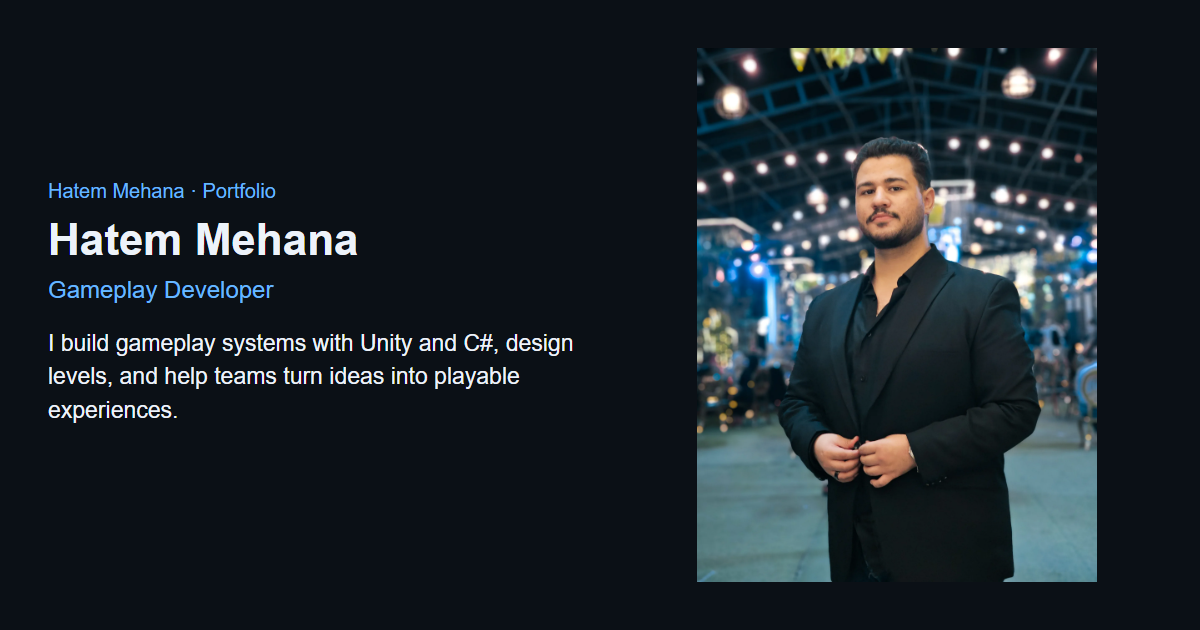
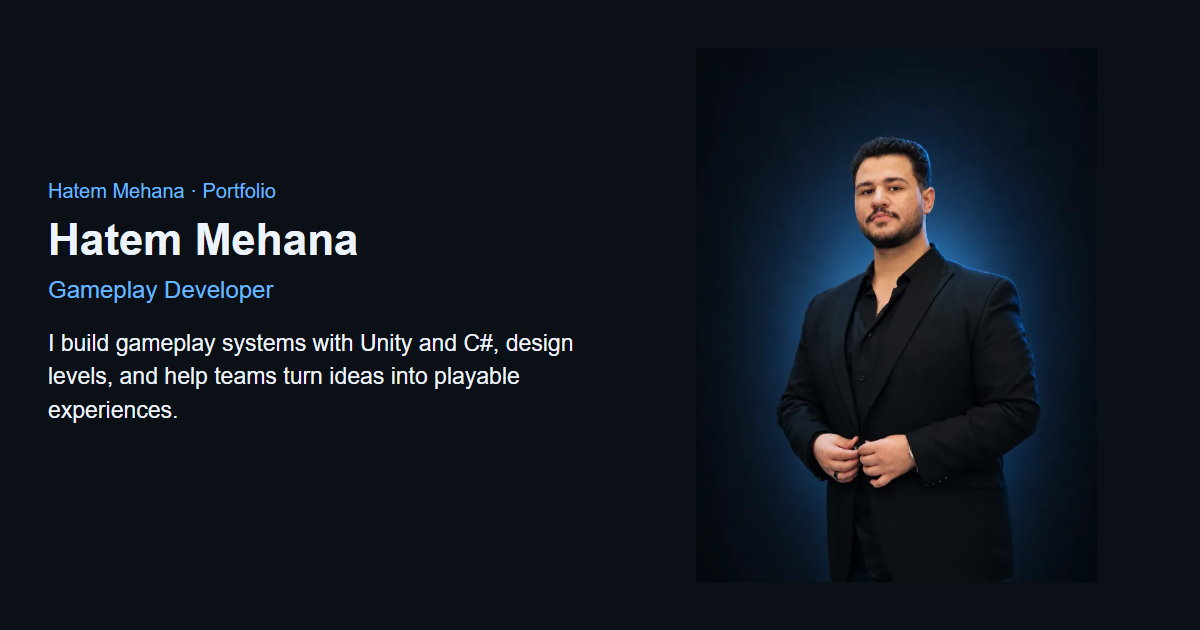
Configure verified Pages URL and production SEO metadata

Changed region(s): [[0.555, 0.0603, 0.925, 0.9349]]

diff --git a/projects/king-of-stratgy.html b/projects/king-of-stratgy.html
@@ -24,7 +24,7 @@
   <link rel="modulepreload" href="js/dom.js">
   <link rel="modulepreload" href="js/sliders.js">
   <meta name="description" content="strategy game simulating ancient battles with five unit types and 10 historical armies, each with unique traits. It features 30 challenging levels where players set formations and watch the outcome. My role: Programmer &amp; Level Designer.">
-  <meta name="robots" content="noindex, follow">
+  <meta name="robots" content="index, follow">
   <meta property="og:title" content="King Of Stratgy | Hatem Mehana">
   <meta property="og:description" content="strategy game simulating ancient battles with five unit types and 10 historical armies, each with unique traits. It features 30 challenging levels where players set formations and watch the outcome. My role: Programmer &amp; Level Designer.">
   <meta property="og:type" content="website">
@@ -32,6 +32,14 @@
   <meta name="twitter:card" content="summary_large_image">
   <meta name="twitter:title" content="King Of Stratgy | Hatem Mehana">
   <meta name="twitter:description" content="strategy game simulating ancient battles with five unit types and 10 historical armies, each with unique traits. It features 30 challenging levels where players set formations and watch the outcome. My role: Programmer &amp; Level Designer.">
+  <link rel="canonical" href="https://hatem2311.github.io/hatem-mehana.github.io/projects/king-of-stratgy.html">
+  <meta property="og:url" content="https://hatem2311.github.io/hatem-mehana.github.io/projects/king-of-stratgy.html">
+  <meta property="og:image" content="https://hatem2311.github.io/hatem-mehana.github.io/share/king-of-stratgy.png">
+  <meta property="og:image:type" content="image/png">
+  <meta property="og:image:width" content="1200">
+  <meta property="og:image:height" content="630">
+  <meta property="og:image:alt" content="King Of Stratgy — Programmer &amp; Level Designer">
+  <meta name="twitter:image" content="https://hatem2311.github.io/hatem-mehana.github.io/share/king-of-stratgy.png">
 </head>
 <body data-project-id="king-of-stratgy">
   <a class="skip-link" href="projects/king-of-stratgy.html#main">Skip to content</a>

diff --git a/projects/azooma-escape.html b/projects/azooma-escape.html
@@ -24,7 +24,7 @@
   <link rel="modulepreload" href="js/dom.js">
   <link rel="modulepreload" href="js/sliders.js">
   <meta name="description" content="Hide. Dodge flying slippers. Avoid that ONE uncle determined to feed you. Your mission: escape Uncle&#39;s celebration alive and unfed. My role: Programmer &amp; Level Designer.">
-  <meta name="robots" content="noindex, follow">
+  <meta name="robots" content="index, follow">
   <meta property="og:title" content="Azooma Escape | Hatem Mehana">
   <meta property="og:description" content="Hide. Dodge flying slippers. Avoid that ONE uncle determined to feed you. Your mission: escape Uncle&#39;s celebration alive and unfed. My role: Programmer &amp; Level Designer.">
   <meta property="og:type" content="website">
@@ -32,6 +32,14 @@
   <meta name="twitter:card" content="summary_large_image">
   <meta name="twitter:title" content="Azooma Escape | Hatem Mehana">
   <meta name="twitter:description" content="Hide. Dodge flying slippers. Avoid that ONE uncle determined to feed you. Your mission: escape Uncle&#39;s celebration alive and unfed. My role: Programmer &amp; Level Designer.">
+  <link rel="canonical" href="https://hatem2311.github.io/hatem-mehana.github.io/projects/azooma-escape.html">
+  <meta property="og:url" content="https://hatem2311.github.io/hatem-mehana.github.io/projects/azooma-escape.html">
+  <meta property="og:image" content="https://hatem2311.github.io/hatem-mehana.github.io/share/azooma-escape.png">
+  <meta property="og:image:type" content="image/png">
+  <meta property="og:image:width" content="1200">
+  <meta property="og:image:height" content="630">
+  <meta property="og:image:alt" content="Azooma Escape — Programmer &amp; Level Designer">
+  <meta name="twitter:image" content="https://hatem2311.github.io/hatem-mehana.github.io/share/azooma-escape.png">
 </head>
 <body data-project-id="azooma-escape">
   <a class="skip-link" href="projects/azooma-escape.html#main">Skip to content</a>

diff --git a/projects/implant-mission-the-lost-tree.html b/projects/implant-mission-the-lost-tree.html
@@ -24,7 +24,7 @@
   <link rel="modulepreload" href="js/dom.js">
   <link rel="modulepreload" href="js/sliders.js">
   <meta name="description" content="Explore a polluted land in search of the last hope to restore life! My role: Team Leader &amp; Level Designer.">
-  <meta name="robots" content="noindex, follow">
+  <meta name="robots" content="index, follow">
   <meta property="og:title" content="Implant Mission: The Lost Tree | Hatem Mehana">
   <meta property="og:description" content="Explore a polluted land in search of the last hope to restore life! My role: Team Leader &amp; Level Designer.">
   <meta property="og:type" content="website">
@@ -32,6 +32,14 @@
   <meta name="twitter:card" content="summary_large_image">
   <meta name="twitter:title" content="Implant Mission: The Lost Tree | Hatem Mehana">
   <meta name="twitter:description" content="Explore a polluted land in search of the last hope to restore life! My role: Team Leader &amp; Level Designer.">
+  <link rel="canonical" href="https://hatem2311.github.io/hatem-mehana.github.io/projects/implant-mission-the-lost-tree.html">
+  <meta property="og:url" content="https://hatem2311.github.io/hatem-mehana.github.io/projects/implant-mission-the-lost-tree.html">
+  <meta property="og:image" content="https://hatem2311.github.io/hatem-mehana.github.io/share/implant-mission-the-lost-tree.png">
+  <meta property="og:image:type" content="image/png">
+  <meta property="og:image:width" content="1200">
+  <meta property="og:image:height" content="630">
+  <meta property="og:image:alt" content="Implant Mission: The Lost Tree — Team Leader &amp; Level Designer">
+  <meta name="twitter:image" content="https://hatem2311.github.io/hatem-mehana.github.io/share/implant-mission-the-lost-tree.png">
 </head>
 <body data-project-id="implant-mission-the-lost-tree">
   <a class="skip-link" href="projects/implant-mission-the-lost-tree.html#main">Skip to content</a>

diff --git a/projects/lanterns-ninja.html b/projects/lanterns-ninja.html
@@ -24,7 +24,7 @@
   <link rel="modulepreload" href="js/dom.js">
   <link rel="modulepreload" href="js/sliders.js">
   <meta name="description" content="Your goal is to destroy as many lanterns as possible and collect as many points as possible. My role: Gameplay Programmer &amp; Level Designer.">
-  <meta name="robots" content="noindex, follow">
+  <meta name="robots" content="index, follow">
   <meta property="og:title" content="Lanterns Ninja | Hatem Mehana">
   <meta property="og:description" content="Your goal is to destroy as many lanterns as possible and collect as many points as possible. My role: Gameplay Programmer &amp; Level Designer.">
   <meta property="og:type" content="website">
@@ -32,6 +32,14 @@
   <meta name="twitter:card" content="summary_large_image">
   <meta name="twitter:title" content="Lanterns Ninja | Hatem Mehana">
   <meta name="twitter:description" content="Your goal is to destroy as many lanterns as possible and collect as many points as possible. My role: Gameplay Programmer &amp; Level Designer.">
+  <link rel="canonical" href="https://hatem2311.github.io/hatem-mehana.github.io/projects/lanterns-ninja.html">
+  <meta property="og:url" content="https://hatem2311.github.io/hatem-mehana.github.io/projects/lanterns-ninja.html">
+  <meta property="og:image" content="https://hatem2311.github.io/hatem-mehana.github.io/share/lanterns-ninja.png">
+  <meta property="og:image:type" content="image/png">
+  <meta property="og:image:width" content="1200">
+  <meta property="og:image:height" content="630">
+  <meta property="og:image:alt" content="Lanterns Ninja — Gameplay Programmer &amp; Level Designer">
+  <meta name="twitter:image" content="https://hatem2311.github.io/hatem-mehana.github.io/share/lanterns-ninja.png">
 </head>
 <body data-project-id="lanterns-ninja">
   <a class="skip-link" href="projects/lanterns-ninja.html#main">Skip to content</a>

diff --git a/projects/3d-tic-tac-toe.html b/projects/3d-tic-tac-toe.html
@@ -24,7 +24,7 @@
   <link rel="modulepreload" href="js/dom.js">
   <link rel="modulepreload" href="js/sliders.js">
   <meta name="description" content=" The classic game reimagined in 3D for a modern, exciting experience. My role: Gameplay Programmer &amp; Level Designer.">
-  <meta name="robots" content="noindex, follow">
+  <meta name="robots" content="index, follow">
   <meta property="og:title" content="3D Tic Tac Toe | Hatem Mehana">
   <meta property="og:description" content=" The classic game reimagined in 3D for a modern, exciting experience. My role: Gameplay Programmer &amp; Level Designer.">
   <meta property="og:type" content="website">
@@ -32,6 +32,14 @@
   <meta name="twitter:card" content="summary_large_image">
   <meta name="twitter:title" content="3D Tic Tac Toe | Hatem Mehana">
   <meta name="twitter:description" content=" The classic game reimagined in 3D for a modern, exciting experience. My role: Gameplay Programmer &amp; Level Designer.">
+  <link rel="canonical" href="https://hatem2311.github.io/hatem-mehana.github.io/projects/3d-tic-tac-toe.html">
+  <meta property="og:url" content="https://hatem2311.github.io/hatem-mehana.github.io/projects/3d-tic-tac-toe.html">
+  <meta property="og:image" content="https://hatem2311.github.io/hatem-mehana.github.io/share/3d-tic-tac-toe.png">
+  <meta property="og:image:type" content="image/png">
+  <meta property="og:image:width" content="1200">
+  <meta property="og:image:height" content="630">
+  <meta property="og:image:alt" content="3D Tic Tac Toe — Gameplay Programmer &amp; Level Designer">
+  <meta name="twitter:image" content="https://hatem2311.github.io/hatem-mehana.github.io/share/3d-tic-tac-toe.png">
 </head>
 <body data-project-id="3d-tic-tac-toe">
   <a class="skip-link" href="projects/3d-tic-tac-toe.html#main">Skip to content</a>

diff --git a/projects/roblox-maps.html b/projects/roblox-maps.html
@@ -24,7 +24,7 @@
   <link rel="modulepreload" href="js/dom.js">
   <link rel="modulepreload" href="js/sliders.js">
   <meta name="description" content="Each map is organized by stages of development, as shown in the following images. My role: Level Designer.">
-  <meta name="robots" content="noindex, follow">
+  <meta name="robots" content="index, follow">
   <meta property="og:title" content="Roblox Maps | Hatem Mehana">
   <meta property="og:description" content="Each map is organized by stages of development, as shown in the following images. My role: Level Designer.">
   <meta property="og:type" content="website">
@@ -32,6 +32,14 @@
   <meta name="twitter:card" content="summary_large_image">
   <meta name="twitter:title" content="Roblox Maps | Hatem Mehana">
   <meta name="twitter:description" content="Each map is organized by stages of development, as shown in the following images. My role: Level Designer.">
+  <link rel="canonical" href="https://hatem2311.github.io/hatem-mehana.github.io/projects/roblox-maps.html">
+  <meta property="og:url" content="https://hatem2311.github.io/hatem-mehana.github.io/projects/roblox-maps.html">
+  <meta property="og:image" content="https://hatem2311.github.io/hatem-mehana.github.io/share/roblox-maps.png">
+  <meta property="og:image:type" content="image/png">
+  <meta property="og:image:width" content="1200">
+  <meta property="og:image:height" content="630">
+  <meta property="og:image:alt" content="Roblox Maps — Level Designer">
+  <meta name="twitter:image" content="https://hatem2311.github.io/hatem-mehana.github.io/share/roblox-maps.png">
 </head>
 <body data-project-id="roblox-maps">
   <a class="skip-link" href="projects/roblox-maps.html#main">Skip to content</a>

diff --git a/projects/horror-home.html b/projects/horror-home.html
@@ -24,7 +24,7 @@
   <link rel="modulepreload" href="js/dom.js">
   <link rel="modulepreload" href="js/sliders.js">
   <meta name="description" content="small environment consisting of a house room, inside and outside, and one enemy My role: Level Designer.">
-  <meta name="robots" content="noindex, follow">
+  <meta name="robots" content="index, follow">
   <meta property="og:title" content="Horror Home | Hatem Mehana">
   <meta property="og:description" content="small environment consisting of a house room, inside and outside, and one enemy My role: Level Designer.">
   <meta property="og:type" content="website">
@@ -32,6 +32,14 @@
   <meta name="twitter:card" content="summary_large_image">
   <meta name="twitter:title" content="Horror Home | Hatem Mehana">
   <meta name="twitter:description" content="small environment consisting of a house room, inside and outside, and one enemy My role: Level Designer.">
+  <link rel="canonical" href="https://hatem2311.github.io/hatem-mehana.github.io/projects/horror-home.html">
+  <meta property="og:url" content="https://hatem2311.github.io/hatem-mehana.github.io/projects/horror-home.html">
+  <meta property="og:image" content="https://hatem2311.github.io/hatem-mehana.github.io/share/horror-home.png">
+  <meta property="og:image:type" content="image/png">
+  <meta property="og:image:width" content="1200">
+  <meta property="og:image:height" content="630">
+  <meta property="og:image:alt" content="Horror Home — Level Designer">
+  <meta name="twitter:image" content="https://hatem2311.github.io/hatem-mehana.github.io/share/horror-home.png">
 </head>
 <body data-project-id="horror-home">
   <a class="skip-link" href="projects/horror-home.html#main">Skip to content</a>

diff --git a/index.html b/index.html
@@ -23,7 +23,7 @@
   <link rel="modulepreload" href="js/journey.js">
   <link rel="modulepreload" href="js/navigation.js">
   <meta name="description" content="I build gameplay systems with Unity and C#, design levels, and help teams turn ideas into playable experiences.">
-  <meta name="robots" content="noindex, follow">
+  <meta name="robots" content="index, follow">
   <meta property="og:title" content="Hatem Mehana | Gameplay Developer">
   <meta property="og:description" content="I build gameplay systems with Unity and C#, design levels, and help teams turn ideas into playable experiences.">
   <meta property="og:type" content="website">
@@ -31,6 +31,14 @@
   <meta name="twitter:card" content="summary_large_image">
   <meta name="twitter:title" content="Hatem Mehana | Gameplay Developer">
   <meta name="twitter:description" content="I build gameplay systems with Unity and C#, design levels, and help teams turn ideas into playable experiences.">
+  <link rel="canonical" href="https://hatem2311.github.io/hatem-mehana.github.io/">
+  <meta property="og:url" content="https://hatem2311.github.io/hatem-mehana.github.io/">
+  <meta property="og:image" content="https://hatem2311.github.io/hatem-mehana.github.io/share/home.png">
+  <meta property="og:image:type" content="image/png">
+  <meta property="og:image:width" content="1200">
+  <meta property="og:image:height" content="630">
+  <meta property="og:image:alt" content="Hatem Mehana — Gameplay Developer">
+  <meta name="twitter:image" content="https://hatem2311.github.io/hatem-mehana.github.io/share/home.png">
 </head>
 <body>
   <a class="skip-link" href="#main">Skip to content</a>

diff --git a/docs/seo.md b/docs/seo.md
@@ -1,7 +1,9 @@
 # SEO and sharing
 
-Task 31 remains In progress because the final public URL is unknown. Existing content provides page-specific titles, descriptions, Open Graph/Twitter metadata and stable project slugs in generated HTML, readable without JavaScript. Eight 1200×630 PNG share cards use existing project images and the existing portrait. All dimensions were verified and two representative cards visually checked locally; no public platform preview is claimed.
+Task 31 uses the GitHub Pages URL verified through the repository Pages API on 2026-10-21: https://hatem2311.github.io/hatem-mehana.github.io/. Pages publishes main at the repository root; no custom domain is configured. The account root returns 404, while the project URL returns 200.
 
-Sources: `content/site.json`, `content/projects/*.json`. Generation: `node tools/share-cards.cjs`, then `node tools/build.mjs`. Verification: `node --test tests/seo.test.mjs` and `node tools/build.mjs --check`. Cards are incremental; regenerate after changing their source content. `tools/seo.mjs` preserves a deployment subpath and escapes metadata.
+Sources: content/site.json and content/projects/*.json. Generate share cards with node tools/share-cards.cjs, then node tools/build.mjs --production. Eight pages contain unique titles, descriptions, canonical URLs, Open Graph and Twitter metadata directly in HTML without JavaScript. Eight 1200x630 PNG share cards use existing project images and the current portrait. Legacy page.html remains noindex.
 
-Pending: confirmed `seo.siteUrl`, public canonical/OG image URLs, production sitemap/robots and actual sharing-platform crawler previews. The repository remote is not treated as confirmation of a deployment domain. Until then the local build emits no canonical, blocks indexing and produces an empty sitemap. `node tools/build.mjs --production` rejects a missing publication URL. Once a confirmed HTTPS URL is configured, generation emits absolute canonical/image URLs and eight sitemap entries. Tests use example.test solely as a fixture, never as publication data.
+The sitemap contains the home page and seven stable project URLs, preserving the GitHub Pages subpath. robots.txt allows crawling and points to that sitemap. Initial SEO/schema/case-study validation: 17 tests passed; build --check passed. The unconfirmed-URL safety test uses an explicit empty fixture and continues to prevent publishing invented URLs.
+
+After deployment run node tools/verify-deployment.mjs. It checks public canonical URLs, index directives, Facebook/Twitter crawler metadata, all share PNG dimensions, embedded local assets, CV, sitemap and robots. A successful HTTP crawler check does not prove the appearance or cached state of a preview inside a social network; platform UI previews require a separate check.
